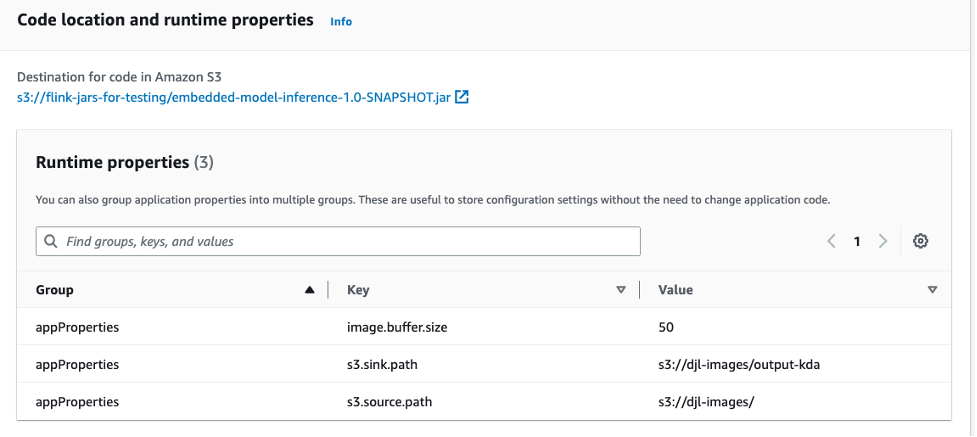
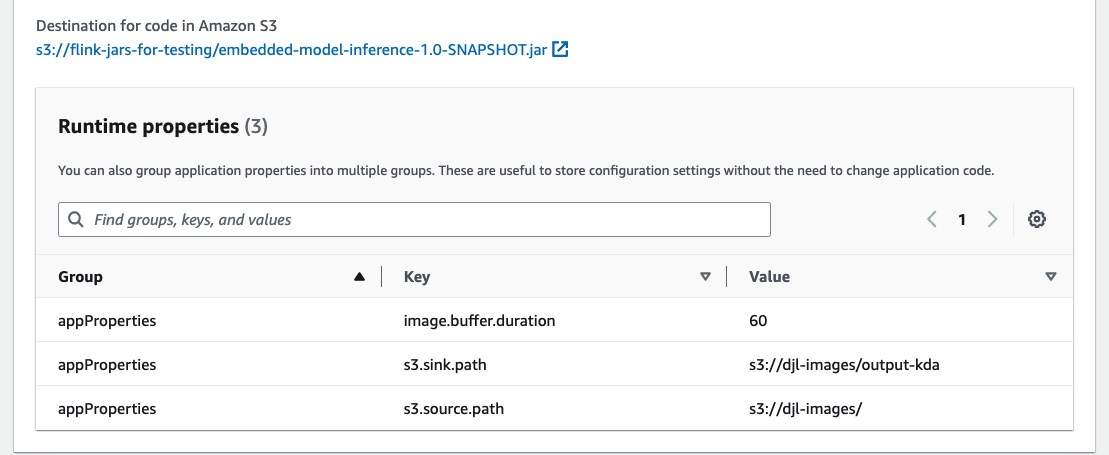
updated readme.md

diff --git a/image-classification/README.md b/image-classification/README.md
@@ -28,19 +28,9 @@ DataStream<StreamedImage> stream =
         "file-source");
 ```
 
-You can modify the listOfImagesBufferSize to make larger or smaller
-buffered images. This can be configured on Kinesis Data Analytics
-for Apache Flink by using the application property image.buffer
-size, but is defaulted to 100 images at a time.
+Next, we create a Tumbling window of a variable time window duration, specified in configuration, defaulting to 60 seconds. Every window close creates a batch (list) of images to be classified using a `ProcessWindowFunction`.
 
-```java
-DataStream<List<StreamedImage>> listOfImagesStream =
-        stream.keyBy(x-> x.getId())
-        .process(new CollectImagesInList(listOfImagesBufferSize));
-```
-
-Finally, we have our batches in the stream and are ready to send them to a flatMap function for classifying images via the
-Classifier.java class. This flatMap function will call the
+This ProcessWindowFunction will call the
 classifier predict function on the list of images and return the
 best probability of classification from each image. This result is
 then sent back to the Flink operator where it is promptly written
@@ -54,7 +44,7 @@ In Classifier.java, we read the image and apply crop, transpose, reshape, and fi
 - Java 11
 - Maven
 - Apache Flink
--
+
 ## Getting Started
 After cloning the application locally, you can create your application jar by navigating to the directory that contains your pom.xml and running the following command:
 
@@ -83,20 +73,26 @@ When we click on one of the data-partitioned folders, we will see partition file
 
 ### CloudFormation Script
 
-In order to run this codebase on Kinesis Data Analytics for Apache Flink, we have a helpful CloudFormation template that will spin up the necessary resources.
+Note - Be sure to replace the first two line's BUCKET variables with your own source bucket and sink bucket, which will contain the source images and the classifications respectively.
 
-Simply open [AWS CloudShell](https://aws.amazon.com/cloudshell/) or your local machine's Terminal and paste the following command:
+Command 1 – Setting up CDK Environment
+If you do not have CDK Bootstrapped in your account, run the following command, substituting your account number and current region:
 
-! Note - Be sure to replace the first two line's BUCKET variables with your own source bucket and sink bucket, which will contain the source images and the classifications respectively.
+`cdk bootstrap aws://ACCOUNT-NUMBER/REGION`
 
-```bash
+Command 2 – Setting up S3 Bucket and Launching AWS CloudFormation Script
+The script will clone a GitHub Repo of images to classify and upload them to your source Amazon S3 bucket. Then it will launch the CloudFormation stack given your input parameters.
+
+
+
+
 export SOURCE_BUCKET=s3://SAMPLE-BUCKET/PATH;
 export SINK_BUCKET=s3://SAMPLE_BUCKET/PATH;
 git clone https://github.com/EliSchwartz/imagenet-sample-images;
 cd imagenet-sample-images;
 aws s3 cp . $SOURCE_BUCKET --recursive --exclude "*/";
 aws cloudformation create-stack --stack-name KDAImageClassification --template-url https://aws-blogs-artifacts-public.s3.amazonaws.com/artifacts/BDB-3098/BlogStack.template.json --parameters ParameterKey=inputBucketPath,ParameterValue=$SOURCE_BUCKET ParameterKey=outputBucketPath,ParameterValue=$SINK_BUCKET --capabilities CAPABILITY_IAM;
-```
+
 
 The script will clone a Github Repo of images to classify and upload them to your source Amazon S3 bucket. Then it will launch the CloudFormation stack given your input parameters.
 
